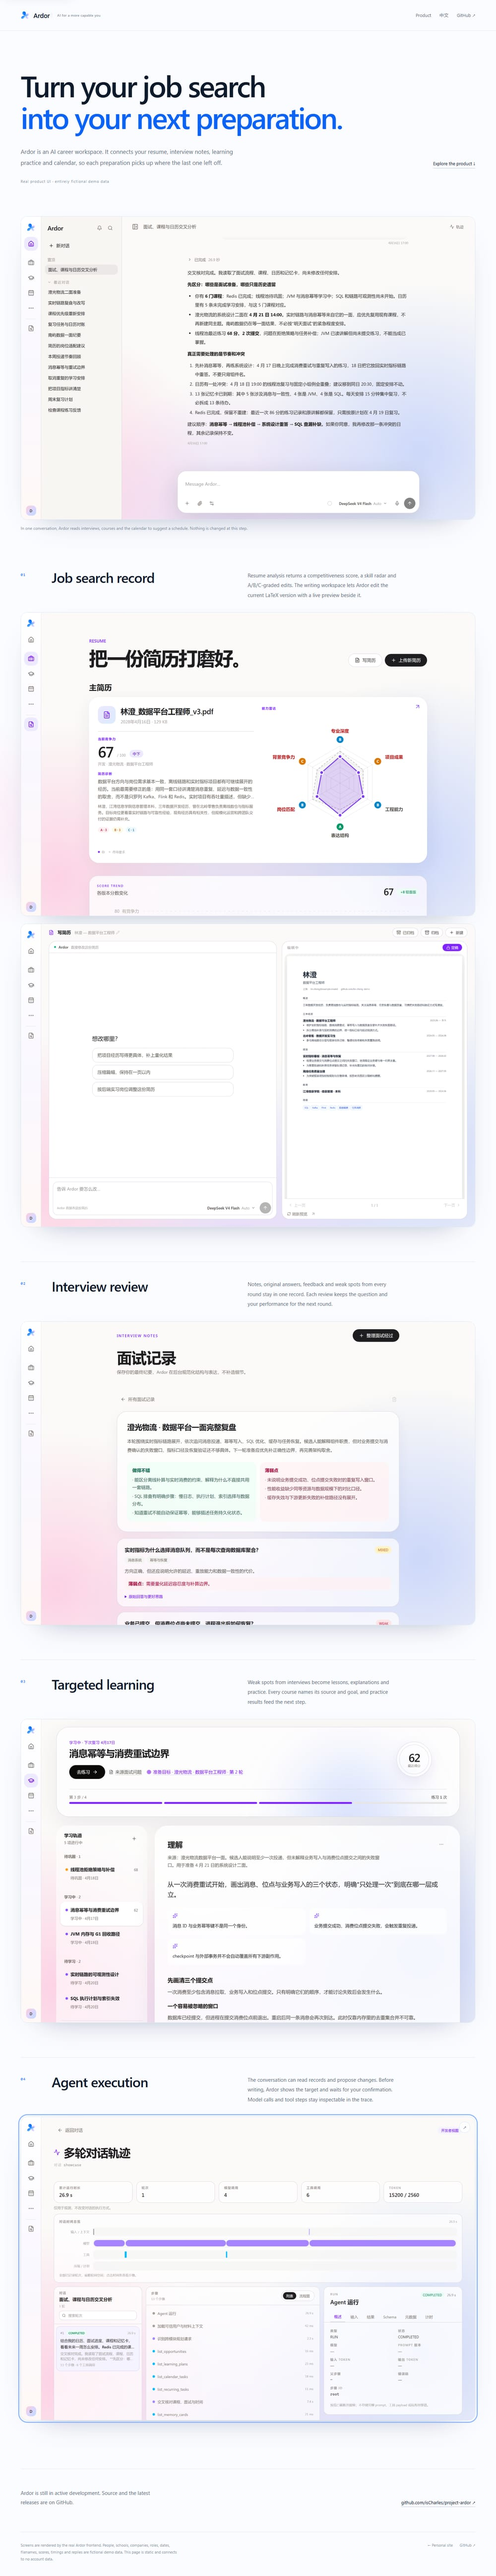
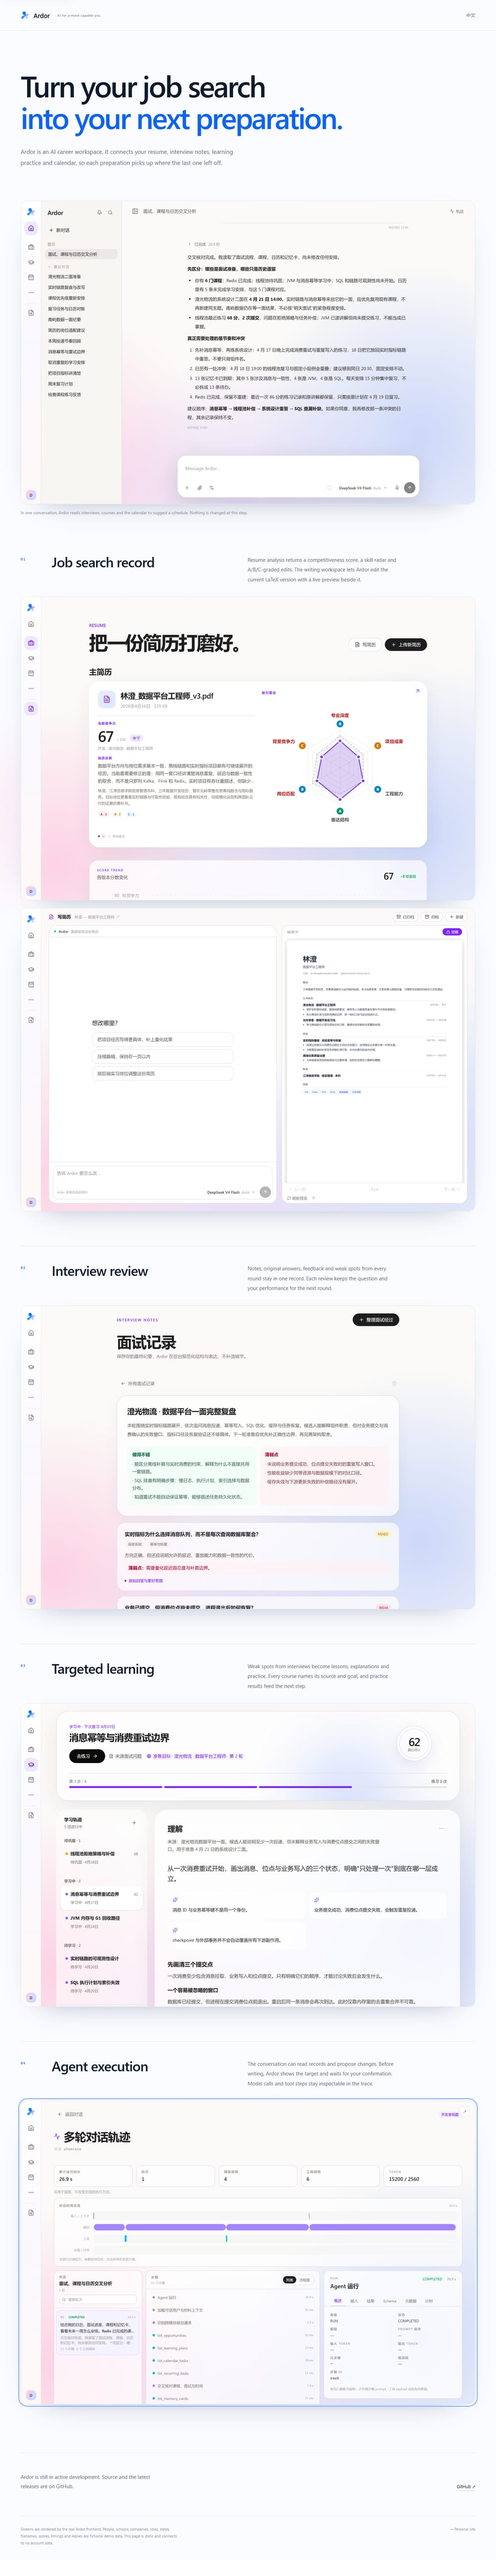
Remove duplicate entrances from the Ardor showcase
Keep only the brand and language switch in the header, drop the repeated in-page jump link and meta line, and leave a single GitHub link at the end. The footer now only links back to the personal site.

diff --git a/ardor/index.html b/ardor/index.html
@@ -39,11 +39,7 @@
           <span class="brand-note">AI for a more capable you</span>
         </span>
       </a>
-      <nav aria-label="页面导航" data-zh-label="页面导航" data-en-label="Page navigation">
-        <a class="nav-product" href="#product"><span class="lang-zh" lang="zh-CN">界面</span><span class="lang-en" lang="en">Product</span></a>
-        <button class="lang-toggle" id="lang-toggle" type="button" aria-label="切换为英文">EN</button>
-        <a href="https://github.com/isCharles/project-ardor" target="_blank" rel="noopener noreferrer">GitHub <span aria-hidden="true">↗</span></a>
-      </nav>
+      <button class="lang-toggle" id="lang-toggle" type="button" aria-label="切换为英文">EN</button>
     </div>
   </header>
 
@@ -53,11 +49,7 @@
         <span class="lang-zh" lang="zh-CN">把求职过程，<br><span class="accent">变成下一次准备的起点。</span></span>
         <span class="lang-en" lang="en">Turn your job search<br><span class="accent">into your next preparation.</span></span>
       </h1>
-      <div class="hero-foot">
-        <p><span class="lang-zh" lang="zh-CN">Ardor 是一个 AI 求职工作台。它把简历、面试记录、学习练习和日历连在一起，让准备接着上一次继续。</span><span class="lang-en" lang="en">Ardor is an AI career workspace. It connects your resume, interview notes, learning practice and calendar, so each preparation picks up where the last one left off.</span></p>
-        <a class="down" href="#product"><span class="lang-zh" lang="zh-CN">看产品界面</span><span class="lang-en" lang="en">Explore the product</span> <span aria-hidden="true">↓</span></a>
-      </div>
-      <p class="meta"><span class="lang-zh" lang="zh-CN">真实产品界面 · 完全虚构的演示数据</span><span class="lang-en" lang="en">Real product UI · entirely fictional demo data</span></p>
+      <p class="hero-lede"><span class="lang-zh" lang="zh-CN">Ardor 是一个 AI 求职工作台。它把简历、面试记录、学习练习和日历连在一起，让准备接着上一次继续。</span><span class="lang-en" lang="en">Ardor is an AI career workspace. It connects your resume, interview notes, learning practice and calendar, so each preparation picks up where the last one left off.</span></p>
     </section>
 
     <figure class="shot hero-shot wrap">
@@ -134,16 +126,13 @@
 
     <section class="end wrap">
       <p><span class="lang-zh" lang="zh-CN">Ardor 仍在持续开发。源码和最新版本在 GitHub。</span><span class="lang-en" lang="en">Ardor is still in active development. Source and the latest releases are on GitHub.</span></p>
-      <a class="end-link" href="https://github.com/isCharles/project-ardor" target="_blank" rel="noopener noreferrer">github.com/isCharles/project-ardor <span aria-hidden="true">↗</span></a>
+      <a class="end-link" href="https://github.com/isCharles/project-ardor" target="_blank" rel="noopener noreferrer">GitHub <span aria-hidden="true">↗</span></a>
     </section>
   </main>
 
   <footer class="wrap">
     <p><span class="lang-zh" lang="zh-CN">界面由实际 Ardor 前端渲染；人物、学校、公司、岗位、日期、文件名、分数、耗时与回复均为虚构演示数据。此页为静态展示，不连接账户数据。</span><span class="lang-en" lang="en">Screens are rendered by the real Ardor frontend. People, schools, companies, roles, dates, filenames, scores, timings and replies are fictional demo data. This page is static and connects to no account data.</span></p>
-    <nav aria-label="页脚导航" data-zh-label="页脚导航" data-en-label="Footer navigation">
-      <a href="/"><span class="lang-zh" lang="zh-CN">← 个人网站</span><span class="lang-en" lang="en">← Personal site</span></a>
-      <a href="https://github.com/isCharles/project-ardor" target="_blank" rel="noopener noreferrer">GitHub <span aria-hidden="true">↗</span></a>
-    </nav>
+    <a class="footer-link" href="/"><span class="lang-zh" lang="zh-CN">← 个人网站</span><span class="lang-en" lang="en">← Personal site</span></a>
   </footer>
 
   <dialog id="shot-dialog" aria-labelledby="shot-title">

diff --git a/public/ardor/showcase.css b/public/ardor/showcase.css
@@ -68,9 +68,6 @@ figure { margin: 0; }
   letter-spacing: 0.035em;
   white-space: nowrap;
 }
-.topbar nav { display: flex; align-items: center; gap: 24px; color: var(--muted); font-size: 13px; }
-.topbar nav a { padding: 6px 0; border-bottom: 1px solid transparent; }
-.topbar nav a:hover { color: var(--ink); border-bottom-color: #b9cbe6; }
 .lang-toggle {
   padding: 6px 0;
   border: 0;
@@ -92,34 +89,12 @@ figure { margin: 0; }
 }
 .hero h1 .accent { color: var(--blue); }
 html[lang="en"] .hero h1 { font-size: clamp(40px, 6.5vw, 86px); letter-spacing: -0.05em; }
-.hero-foot {
-  display: flex;
-  align-items: flex-end;
-  justify-content: space-between;
-  gap: 48px;
-  margin-top: 38px;
-}
-.hero-foot p {
+.hero-lede {
   max-width: 620px;
-  margin: 0;
+  margin: 38px 0 0;
   color: var(--muted);
   font-size: 17px;
   line-height: 1.9;
-}
-.down {
-  flex: none;
-  padding-bottom: 5px;
-  border-bottom: 1px solid #b9cbe6;
-  color: var(--ink);
-  font-size: 13px;
-  white-space: nowrap;
-}
-.down:hover { color: var(--blue); border-bottom-color: var(--blue); }
-.meta {
-  margin: 30px 0 0;
-  color: var(--soft);
-  font-size: 11px;
-  letter-spacing: 0.08em;
 }
 
 .hero-shot { margin-top: 52px; }
@@ -229,7 +204,7 @@ footer {
   line-height: 1.8;
 }
 footer p { max-width: 78ch; margin: 0; }
-footer nav { display: flex; flex: none; gap: 20px; white-space: nowrap; }
+.footer-link { flex: none; white-space: nowrap; }
 footer a:hover { color: var(--ink); }
 
 dialog {
@@ -290,7 +265,7 @@ body:has(dialog[open]) { overflow: hidden; }
   .topbar-inner { min-height: 72px; }
   .hero { padding-top: 64px; }
   .hero h1 { letter-spacing: -0.038em; }
-  .hero-foot { align-items: flex-start; flex-direction: column; gap: 20px; }
+  .hero-lede { margin-top: 28px; }
   .chapters { padding-top: 80px; }
   .chapter { margin-top: 72px; padding-top: 32px; }
   .chapter-head { grid-template-columns: 1fr; gap: 10px; }
@@ -316,7 +291,7 @@ body:has(dialog[open]) { overflow: hidden; }
 @media (max-width: 480px) {
   .wrap { width: calc(100% - 32px); }
   .topbar-inner { gap: 12px; }
-  .topbar nav { gap: 14px; font-size: 12px; }
+  .lang-toggle { font-size: 12px; }
   .brand { gap: 9px; }
   .brand img { width: 24px; height: 24px; }
   .brand-name { font-size: 17px; }
@@ -324,8 +299,7 @@ body:has(dialog[open]) { overflow: hidden; }
   .hero { padding-top: 48px; }
   .hero h1 { font-size: clamp(34px, 10vw, 46px); }
   html[lang="en"] .hero h1 { font-size: clamp(31px, 9vw, 42px); }
-  .hero-foot p { font-size: 15px; line-height: 1.8; }
-  .meta { font-size: 10px; }
+  .hero-lede { font-size: 15px; line-height: 1.8; }
   .shot-open { border-radius: 14px; }
   .zoom-mark { top: 8px; right: 8px; width: 28px; height: 28px; opacity: 0.82; }
   .chapter { margin-top: 60px; }
@@ -334,10 +308,6 @@ body:has(dialog[open]) { overflow: hidden; }
   .dialog-bar { padding: 10px 12px; }
   .dialog-scroll { padding: 8px; }
   .dialog-actions button { padding: 6px 9px; }
-}
-
-@media (max-width: 360px) {
-  .nav-product { display: none; }
 }
 
 @media (prefers-reduced-motion: reduce) {

diff --git a/ARDOR_SHOWCASE.md b/ARDOR_SHOWCASE.md
@@ -9,6 +9,7 @@
 - 页头品牌锁定使用官方 slogan “AI for a more capable you”，替换旧的 AI CAREER WORKSPACE 标签。
 - 页面中英双语，右上角“EN / 中文”即时切换；首次访问跟随浏览器语言，之后记住访客选择。`<html lang>`、标题、描述、章节、图片替代文本和放大对话框文案会一起切换。
 - 官方四瓣标志使用新的 `ardor-mark.svg` 地址，并提供 32px PNG 与 apple-touch 回退，避免旧火焰 favicon 继续命中缓存。
+- 每类入口只保留一处：页头只有品牌与语言切换，首屏不再重复“界面”跳转，GitHub 只在页尾出现一次，页脚只留个人网站链接。
 - 页面只保留每章一段说明，不重复口号、标签或功能清单；具体能力由图中的真实界面表达。
 
 ## 截图与隐私
@@ -35,7 +36,7 @@ ARDOR_FRONTEND_DIR=/absolute/path/to/ardor/frontend node scripts/capture-ardor.m
 
 脚本启动独立 3127 端口，所有 API 由虚构夹具响应，生成对话、简历分析、写简历、面试记录、学习和执行轨迹六张 2× 截图，结束后关闭自己的服务。Windows 可设 `ARDOR_CAPTURE_BROWSER=msedge` 使用本机 Edge。
 
-浏览器回归可使用相同环境变量执行 `node scripts/test-ardor-browser.mjs`（默认预览地址 `http://127.0.0.1:4175`，可通过 `SHOWCASE_BASE` 覆盖）。必须实际找到四个章节和六个截图按钮，分别在中英两种语言下验证章节、按钮文案、图片替代文本、放大与缩放切换、Esc 关闭、刷新持久化和手机预览边界；同时检查英文浏览器首次访问默认英文、favicon 使用新地址、零后台请求及个人主页入口。QA 全页截图写入忽略的依赖缓存，不进入部署产物。
+浏览器回归可使用相同环境变量执行 `node scripts/test-ardor-browser.mjs`（默认预览地址 `http://127.0.0.1:4175`，可通过 `SHOWCASE_BASE` 覆盖）。必须实际找到四个章节和六个截图按钮，分别在中英两种语言下验证章节、按钮文案、图片替代文本、放大与缩放切换、Esc 关闭、刷新持久化和手机预览边界；同时检查英文浏览器首次访问默认英文、favicon 使用新地址、GitHub 只有一个入口、零后台请求及个人主页入口。QA 全页截图写入忽略的依赖缓存，不进入部署产物。
 
 ## 部署
 
